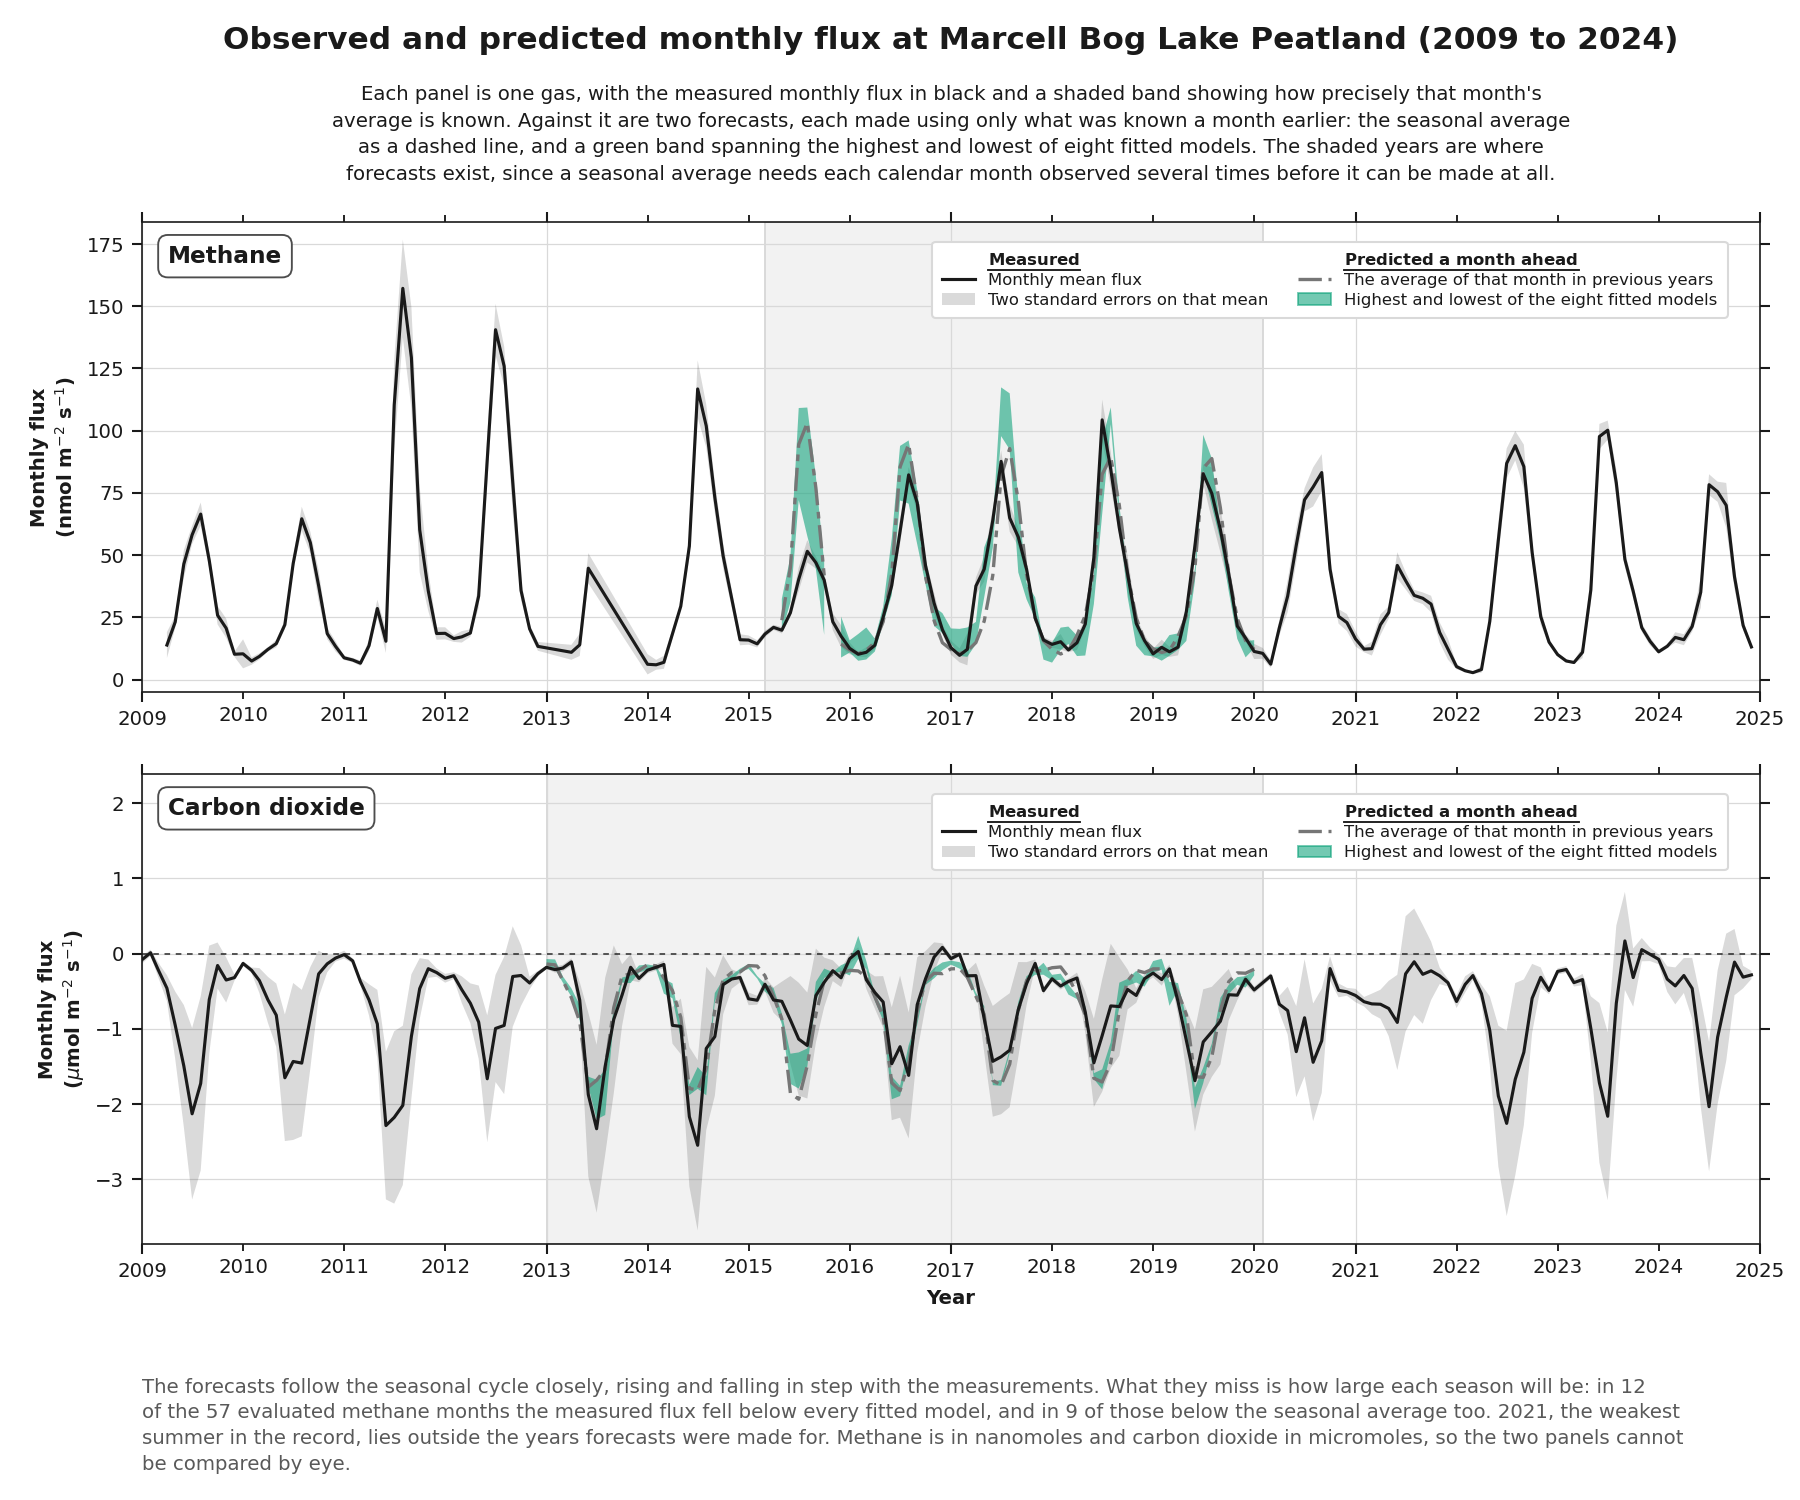
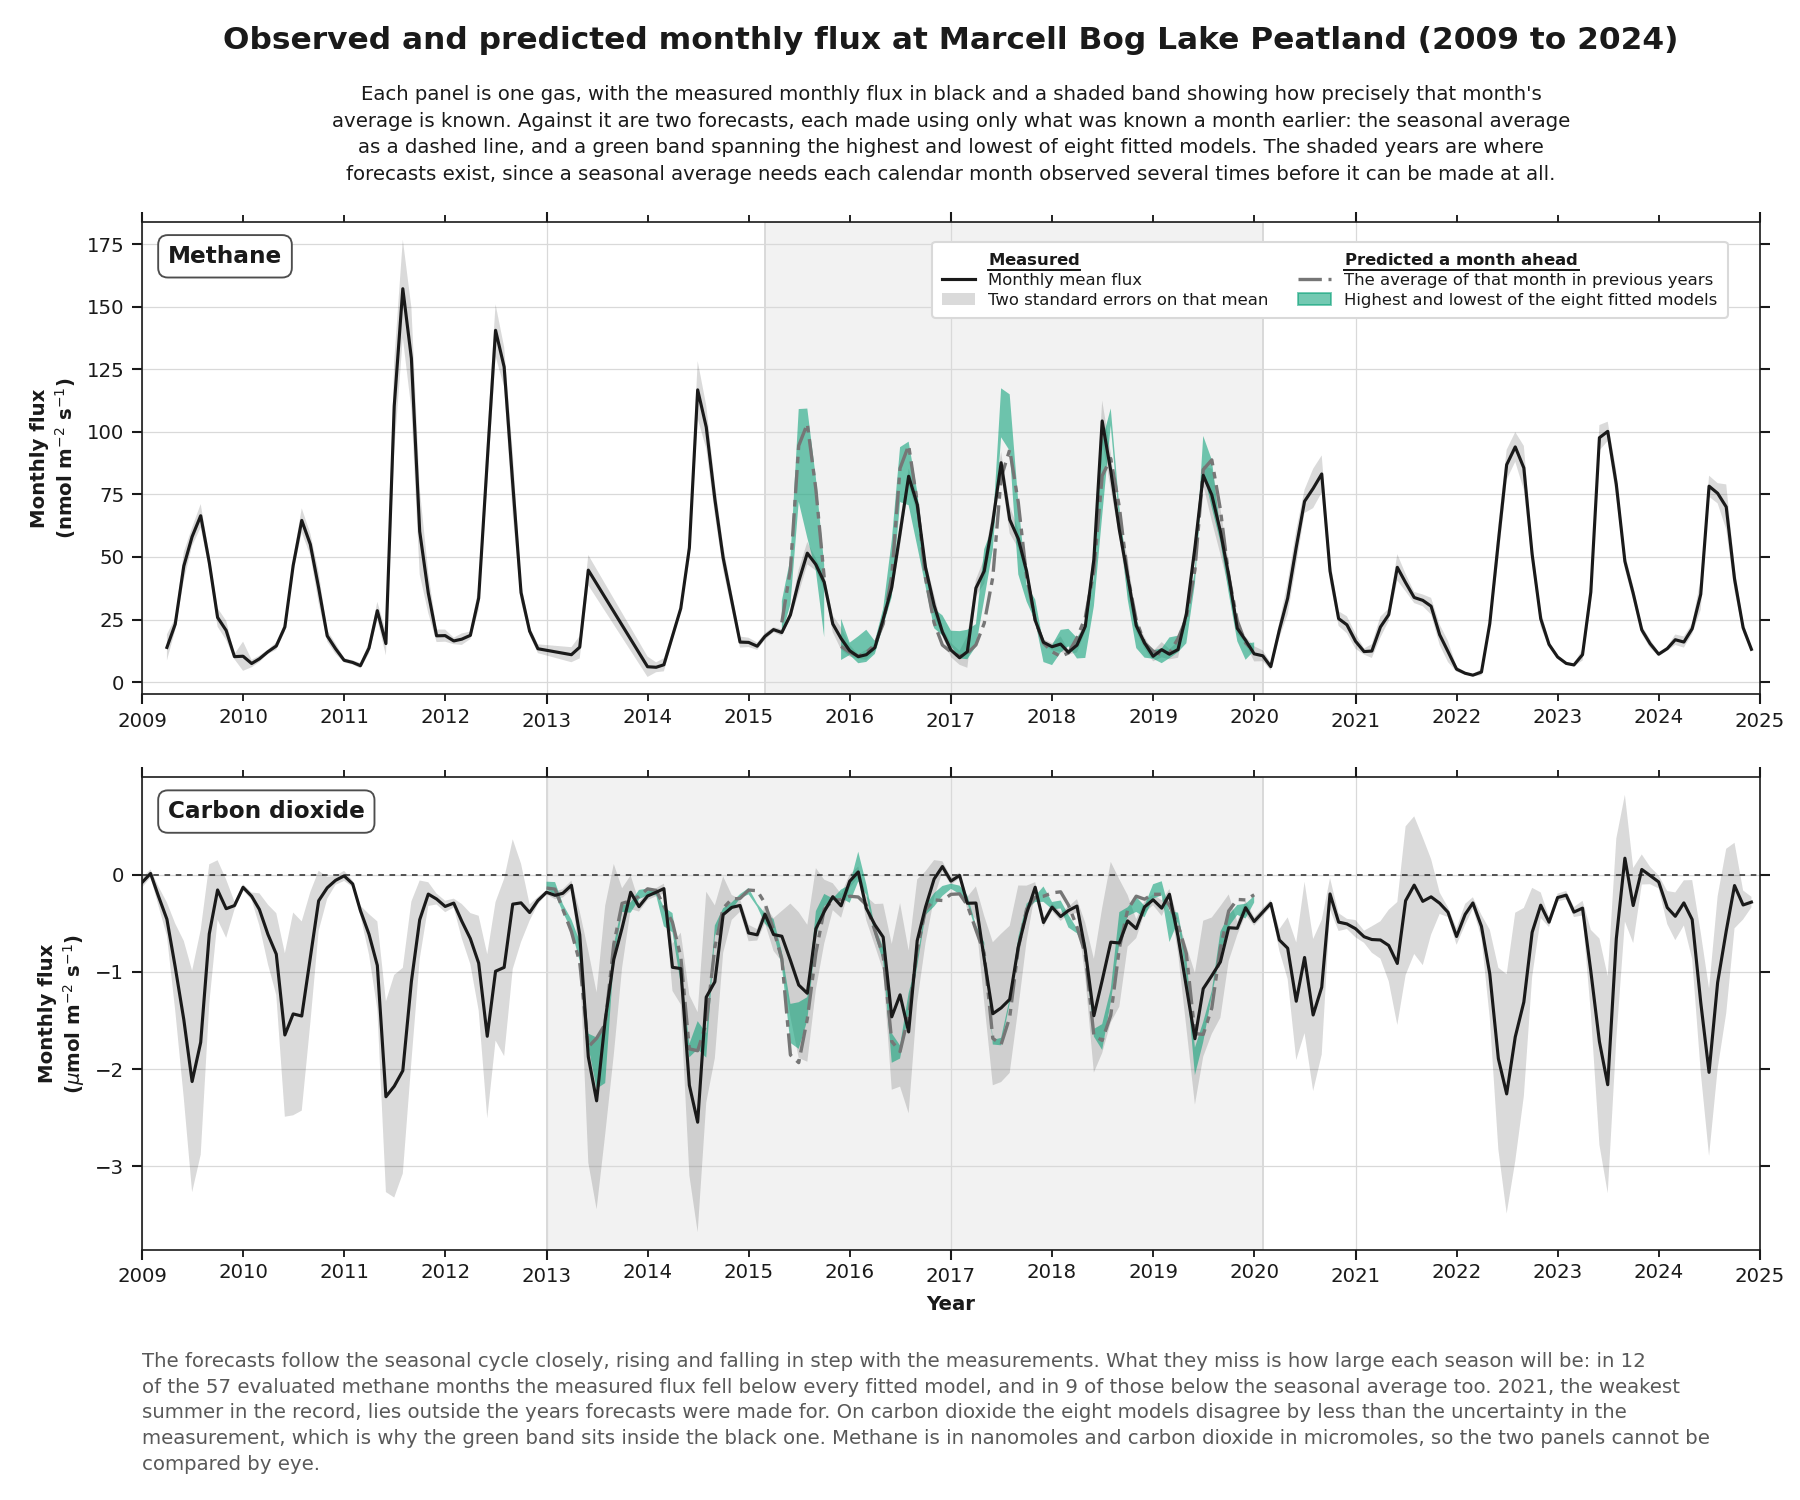
State the carbon dioxide finding, drop the second key, settle the numeral rule
The green band on carbon dioxide is entirely inside the black band in 52% of
forecast months at a median 8.9 px, which is not a legibility problem to fix but
the finding to state: the eight models disagree there by less than the
uncertainty in the measurement. The description says so, which turns a band a
reader struggles to separate into the reason it is hard to separate.

One key serves the pair. The panels are stacked on a shared axis and neither
carries a mark the other lacks, so the second copy named nothing new and cost
the lower panel 8% of its area, which is the panel whose band is thinnest.

The numeral rule is written down beside the block allocations, and the one
outlier fixed. Large or precise counts are numerals and small counts of things a
reader can see are spelled, which the set already did everywhere except
"seventeen of these nineteen years", a large count in the same construction the
flux figure writes as "12 of the 57". A numeral reads as a measurement and a
word as a quantity, so the two together had written one measurement two ways.

The tick change from the previous commit belonged in even_year_ticks rather
than in the panel drawer. That helper already drew annual minors and never named
them, so a reader counted along from a major, and its step lands on four rather
than five because the span is sixteen years. Labelling the minors is now an
argument to it, and the duplicate locator is gone.

Both gaps around the drawing block are 38.25 px.

diff --git a/src/study/figures.py b/src/study/figures.py
@@ -784,8 +784,11 @@ FLUX_TEXT = ps.FigureText(
         "will be: in 12 of the 57 evaluated methane months the measured flux "
         "fell below every fitted model, and in 9 of those below the seasonal "
         "average too. 2021, the weakest summer in the record, lies outside the "
-        "years forecasts were made for. Methane is in nanomoles and carbon "
-        "dioxide in micromoles, so the two panels cannot be compared by eye."
+        "years forecasts were made for. On carbon dioxide the eight models "
+        "disagree by less than the uncertainty in the measurement, which is why "
+        "the green band sits inside the black one. Methane is in nanomoles and "
+        "carbon dioxide in micromoles, so the two panels cannot be compared by "
+        "eye."
     ),
 )
 
@@ -822,23 +825,10 @@ def _draw_flux_panel(ax, panel: pd.DataFrame, unit: str, labeled: bool) -> None:
     margin = 0.04 * (high - low)
     ax.set_ylim(low - margin, high + margin)
 
-    # Every year labeled, on the minor ticks, as the reconstruction figure does.
-    # Sixteen years across 1652 px is 103 px each against a 50 px label, more
-    # room than the nineteen years there. The majors stay at five years because
-    # the grid follows them, and the automatic locator they replace was choosing
-    # four-year steps and a 2025 label a year past the record.
-    import matplotlib.dates as mdates
-
-    ax.xaxis.set_major_locator(mdates.YearLocator(5, month=1, day=1))
-    ax.xaxis.set_minor_locator(mdates.YearLocator(1, month=1, day=1))
-    for which in ("major", "minor"):
-        ax.xaxis.set_major_formatter(mdates.DateFormatter("%Y")) if which == "major" \
-            else ax.xaxis.set_minor_formatter(mdates.DateFormatter("%Y"))
     if labeled:
         ax.set_xlabel(ps.axis_label("Year"))
     ax.set_ylabel(f"Monthly flux\n({unit})")
     ps.mirror_ticks(ax)
-    ax.tick_params(axis="x", which="minor", labelbottom=True, labelsize=ps.TICK_SIZE)
 
 
 def _flux_legend(ax, panel: pd.DataFrame) -> str:
@@ -920,7 +910,13 @@ def observed_and_predicted(panels: dict[str, pd.DataFrame]) -> Figure:
         row = bottom + (1 - index) * (panel_height + gap)
         ax = fig.add_axes((left, row, width, panel_height))
         _draw_flux_panel(ax, panels[key], unit, labeled=index == len(GAS_PANEL) - 1)
-        _flux_legend(ax, panels[key])
+        # One key for the pair, on the upper panel. The two are stacked on a
+        # shared axis and neither carries a mark the other lacks, so a second
+        # copy names nothing new and costs the lower panel 8% of its area. That
+        # is the panel whose green band is thinnest: half its forecast months
+        # sit inside the uncertainty band on the measurement.
+        if index == 0:
+            _flux_legend(ax, panels[key])
         ps.panel_name(ax, gas, align="left")
         axes.append(ax)
 
@@ -931,9 +927,14 @@ def observed_and_predicted(panels: dict[str, pd.DataFrame]) -> Figure:
     last = (max(panel.index.max() for panel in panels.values()) + 1).to_timestamp()
     for ax, (key, _, _) in zip(axes, GAS_PANEL):
         ax.set_xlim(first, last)
-        ps.even_year_ticks(ax, first.year, last.year)
-        _raise_top_for_flux_legend(ax, panels[key])
-        _underline_legend_headings(fig, ax)
+        ps.even_year_ticks(ax, first.year, last.year, label_every_year=True)
+        if ax.get_legend() is not None:
+            _raise_top_for_flux_legend(ax, panels[key])
+            _underline_legend_headings(fig, ax)
+    ps.balance_drawing_block(fig, *axes)
+    for ax in axes:
+        if ax.get_legend() is not None:
+            _underline_legend_headings(fig, ax)
     return fig
 
 

diff --git a/tests/test_flux_figure.py b/tests/test_flux_figure.py
@@ -177,7 +177,8 @@ def test_no_legend_or_panel_name_covers_the_series():
         ceiling = np.fmax(
             (table["observed"] + figures.OBSERVED_BAND_SIGMAS * table["se"]).to_numpy(),
             table["fitted_high"].to_numpy())
-        for artist in [ax.get_legend(), *ax.texts]:
+        furniture = [a for a in (ax.get_legend(), *ax.texts) if a is not None]
+        for artist in furniture:
             box = artist.get_window_extent().transformed(ax.transData.inverted())
             under = (positions >= box.x0) & (positions <= box.x1)
             if not under.any():
@@ -190,6 +191,8 @@ def test_the_legend_and_the_panel_name_take_opposite_corners():
     fig = figures.observed_and_predicted(real_panels())
     fig.canvas.draw()
     for ax in fig.axes:
+        if ax.get_legend() is None:
+            continue
         legend = ax.get_legend().get_window_extent()
         name = next(a.get_window_extent() for a in ax.texts
                     if a.get_text() in ("Methane", "Carbon dioxide"))
@@ -239,15 +242,16 @@ def test_where_the_two_bands_overlap_the_result_is_distinct_from_each():
         assert np.linalg.norm(both - other) > 0.04
 
 
-def test_both_legends_sit_on_the_same_side():
-    """A legend that moves between panels makes the eye relocate."""
+def test_one_key_serves_both_panels():
+    """The panels are stacked on a shared axis and neither carries a mark the
+    other lacks, so a second copy names nothing new. It cost the lower panel 8%
+    of its area, and that is the panel whose green band is thinnest: half its
+    forecast months sit inside the uncertainty band on the measurement."""
     fig = figures.observed_and_predicted(real_panels())
     fig.canvas.draw()
-    corners = set()
-    for ax in fig.axes:
-        box = ax.get_legend().get_window_extent().transformed(ax.transAxes.inverted())
-        corners.add(round((box.x0 + box.x1) / 2) )
-    assert len(corners) == 1
+    keyed = [ax for ax in fig.axes if ax.get_legend() is not None]
+    assert len(keyed) == 1, "one key for the pair"
+    assert keyed[0] is fig.axes[0], "on the upper panel, met first"
     ps.plt.close(fig)
 
 
@@ -286,6 +290,8 @@ def test_the_eight_are_called_models_wherever_they_are_named():
         assert "fitted method disagrees" not in words
     fig = figures.observed_and_predicted(real_panels())
     for ax in fig.axes:
+        if ax.get_legend() is None:
+            continue
         for label in (t.get_text() for t in ax.get_legend().get_texts()):
             assert "fitted methods" not in label
     ps.plt.close(fig)

diff --git a/src/study/plotstyle.py b/src/study/plotstyle.py
@@ -264,6 +264,18 @@ SIZES = {
     "quad": (1560, 2065),
 }
 
+#: How a count is written in a text block. Large or precise counts are numerals,
+#: small counts of things a reader can see on the panel are spelled: "115
+#: months" and "12 of the 57" against "two hollow marks" and "six below". The
+#: line is not arbitrary. A numeral is read as a measurement and a word as a
+#: quantity, so a figure that says "seventeen of these nineteen years" beside
+#: another saying "12 of the 57 evaluated months" has written one measurement
+#: two ways. Where a sentence carries several counts they take one form, since
+#: mixing them inside one clause reads worse than either choice does alone.
+#:
+#: Years, percentages and measured values are always numerals and are not
+#: counts, so they do not enter into this.
+
 #: Fixed pixel allocations, so a figure's proportions do not depend on how much
 #: text it happens to carry.
 TITLE_BLOCK_PX = 96
@@ -684,7 +696,8 @@ def five_year_ticks(ax: plt.Axes, first_year: int, last_year: int) -> None:
     ax.xaxis.set_minor_locator(YearLocator(1))
 
 
-def even_year_ticks(ax: plt.Axes, first_year: int, last_year: int) -> None:
+def even_year_ticks(ax: plt.Axes, first_year: int, last_year: int,
+                    label_every_year: bool = False) -> None:
     """Major ticks evenly spaced from the first year to the last, annual minors.
 
     `five_year_ticks` appends the endpoint when it does not fall on a multiple of
@@ -703,6 +716,15 @@ def even_year_ticks(ax: plt.Axes, first_year: int, last_year: int) -> None:
     ax.xaxis.set_major_locator(FixedLocator([date2num(_dt.date(y, 1, 1)) for y in years]))
     ax.xaxis.set_major_formatter(DateFormatter("%Y"))
     ax.xaxis.set_minor_locator(YearLocator(1))
+    if label_every_year:
+        # The minors were always drawn here and never named, so a reader counted
+        # along from a major to find a year. Naming them is what the
+        # reconstruction figure does: the grid stays on the majors, and every
+        # year carries its label. It also removes the reason the step lands
+        # where it does, which on a sixteen-year span is four rather than five.
+        ax.xaxis.set_minor_formatter(DateFormatter("%Y"))
+        ax.tick_params(axis="x", which="minor", labelbottom=True,
+                       labelsize=TICK_SIZE)
 
 
 def label_period(ax: plt.Axes, start, end, text: str, y: float = 0.965) -> None:

diff --git a/figures/README_fragments.md b/figures/README_fragments.md
@@ -36,7 +36,7 @@ Each panel is one gas. The green region covers all eight fitted models: four met
 
 **Each panel is one gas, with the measured monthly flux in black and a shaded band showing how precisely that month's average is known. Against it are two forecasts, each made using only what was known a month earlier: the seasonal average as a dashed line, and a green band spanning the highest and lowest of eight fitted models. The shaded years are where forecasts exist, since a seasonal average needs each calendar month observed several times before it can be made at all.**
 
-The forecasts follow the seasonal cycle closely, rising and falling in step with the measurements. What they miss is how large each season will be: in 12 of the 57 evaluated methane months the measured flux fell below every fitted model, and in 9 of those below the seasonal average too. 2021, the weakest summer in the record, lies outside the years forecasts were made for. Methane is in nanomoles and carbon dioxide in micromoles, so the two panels cannot be compared by eye.
+The forecasts follow the seasonal cycle closely, rising and falling in step with the measurements. What they miss is how large each season will be: in 12 of the 57 evaluated methane months the measured flux fell below every fitted model, and in 9 of those below the seasonal average too. 2021, the weakest summer in the record, lies outside the years forecasts were made for. On carbon dioxide the eight models disagree by less than the uncertainty in the measurement, which is why the green band sits inside the black one. Methane is in nanomoles and carbon dioxide in micromoles, so the two panels cannot be compared by eye.
 
 ### Which measurements the models used at Marcell Bog Lake Peatland (by forecast horizon)
 
